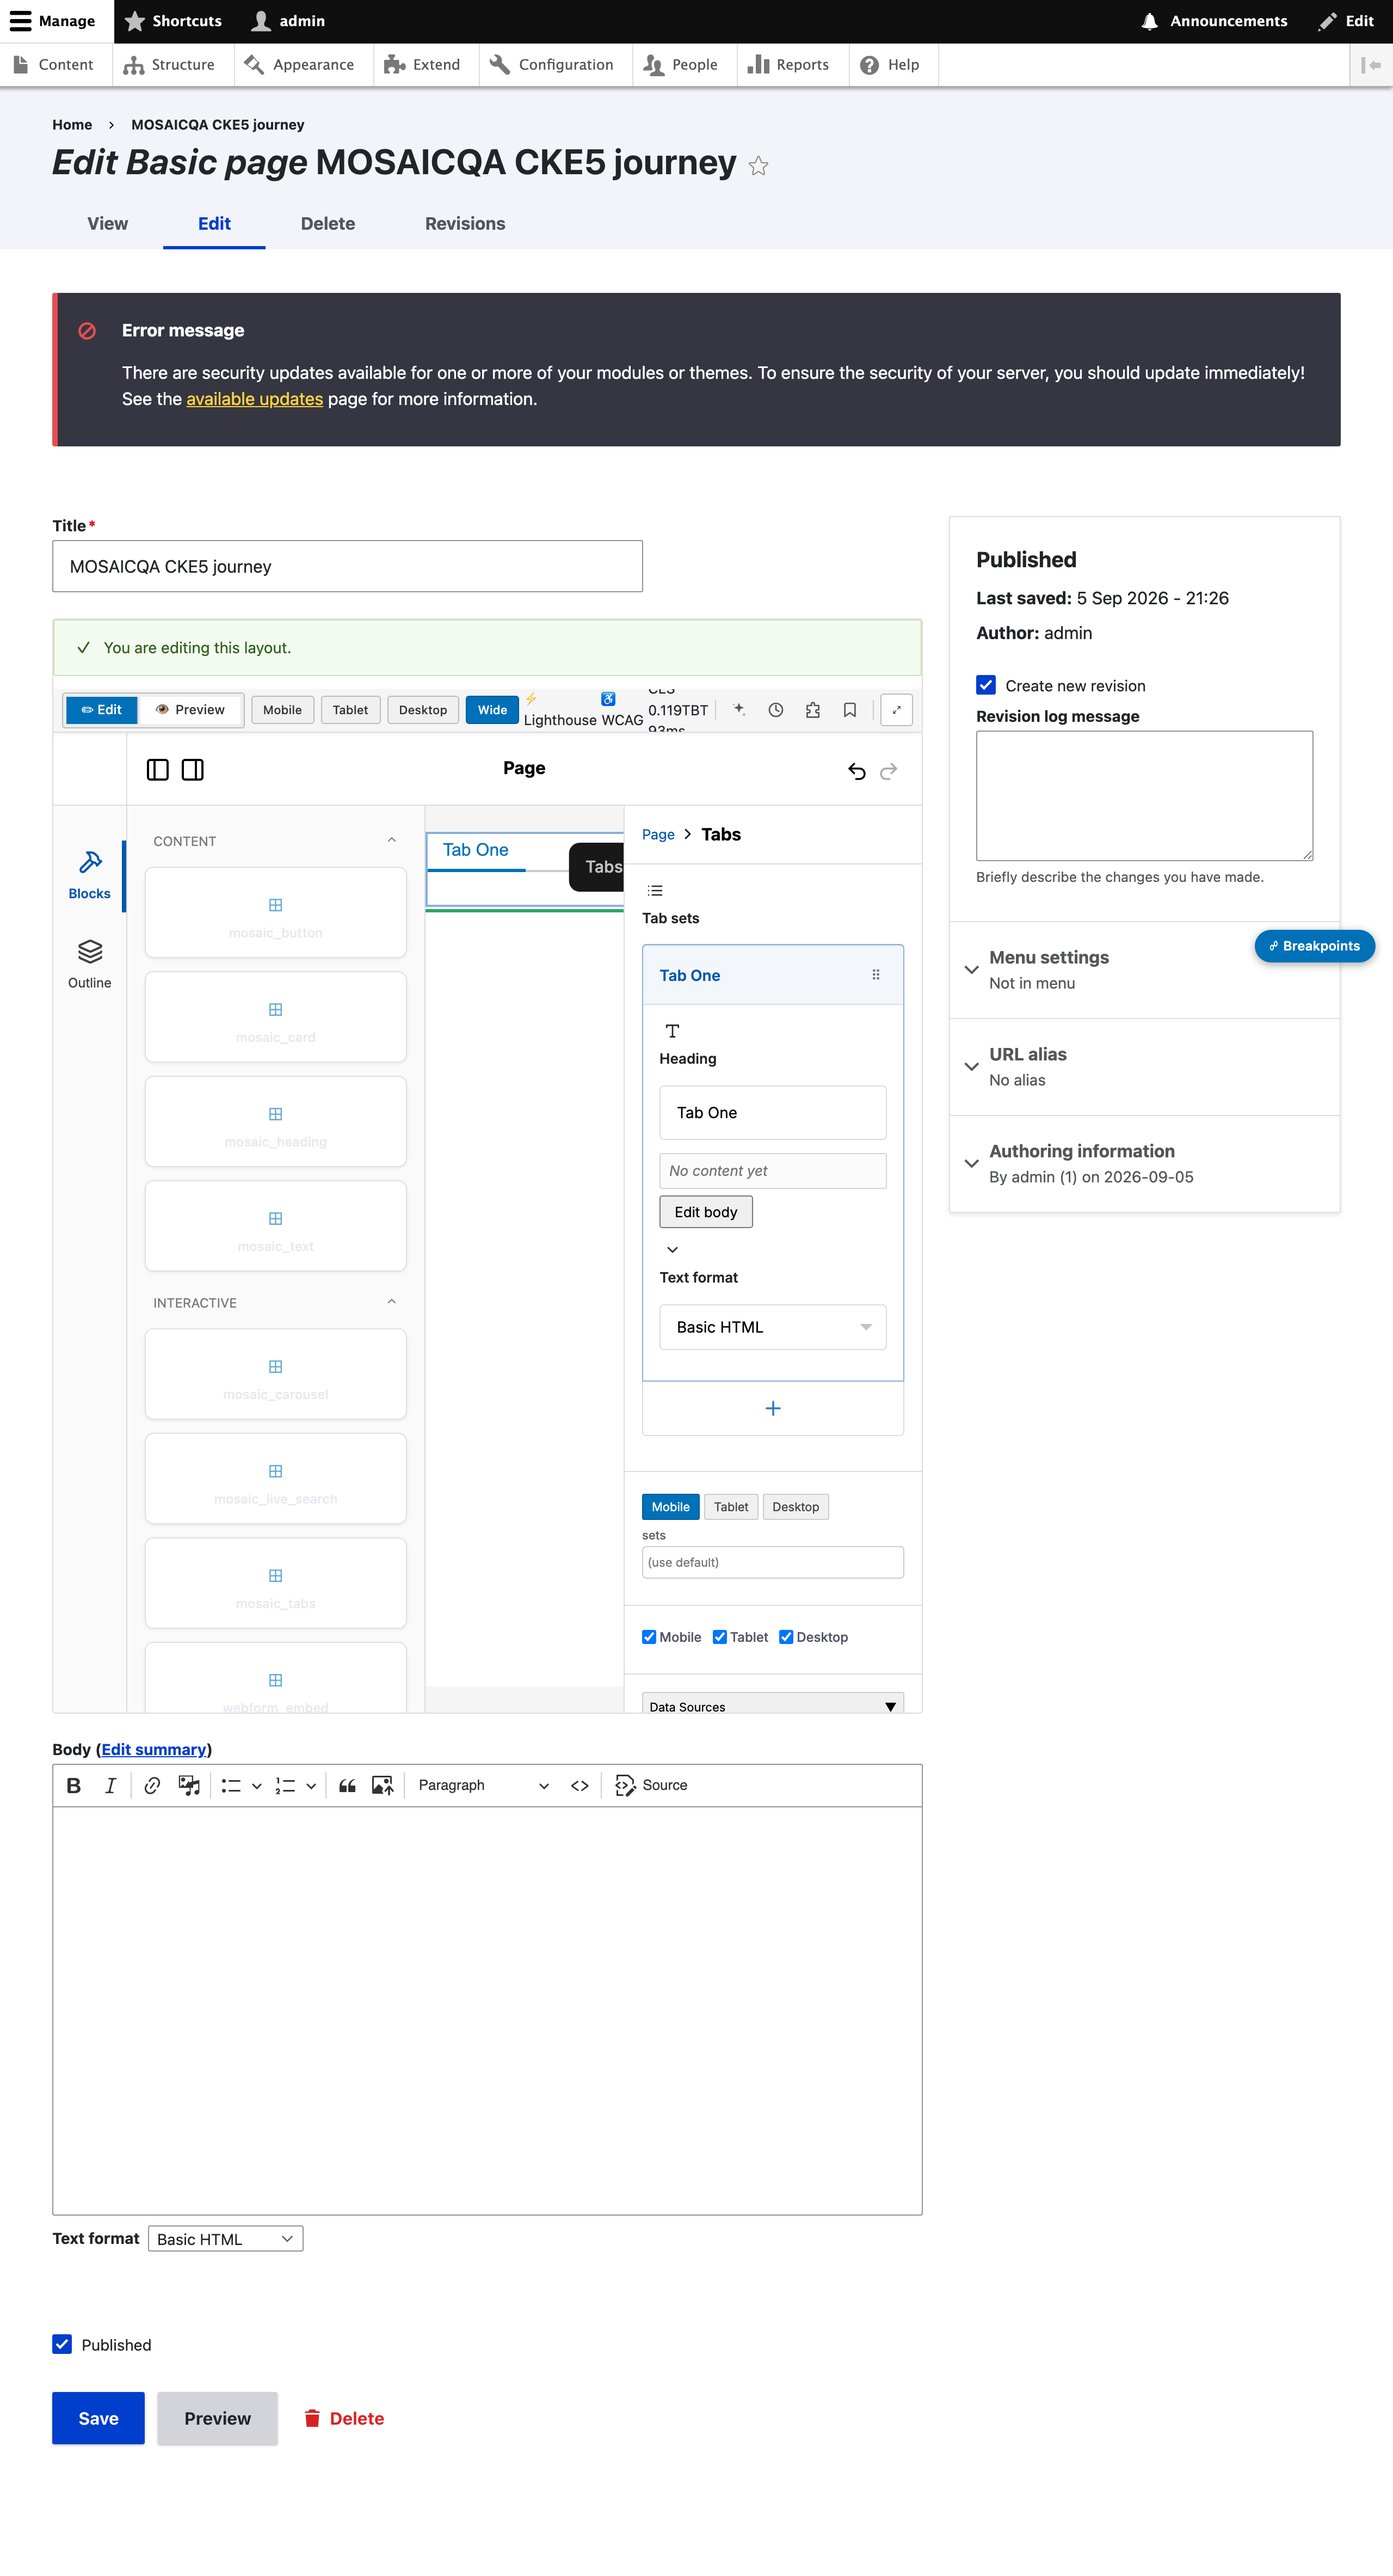
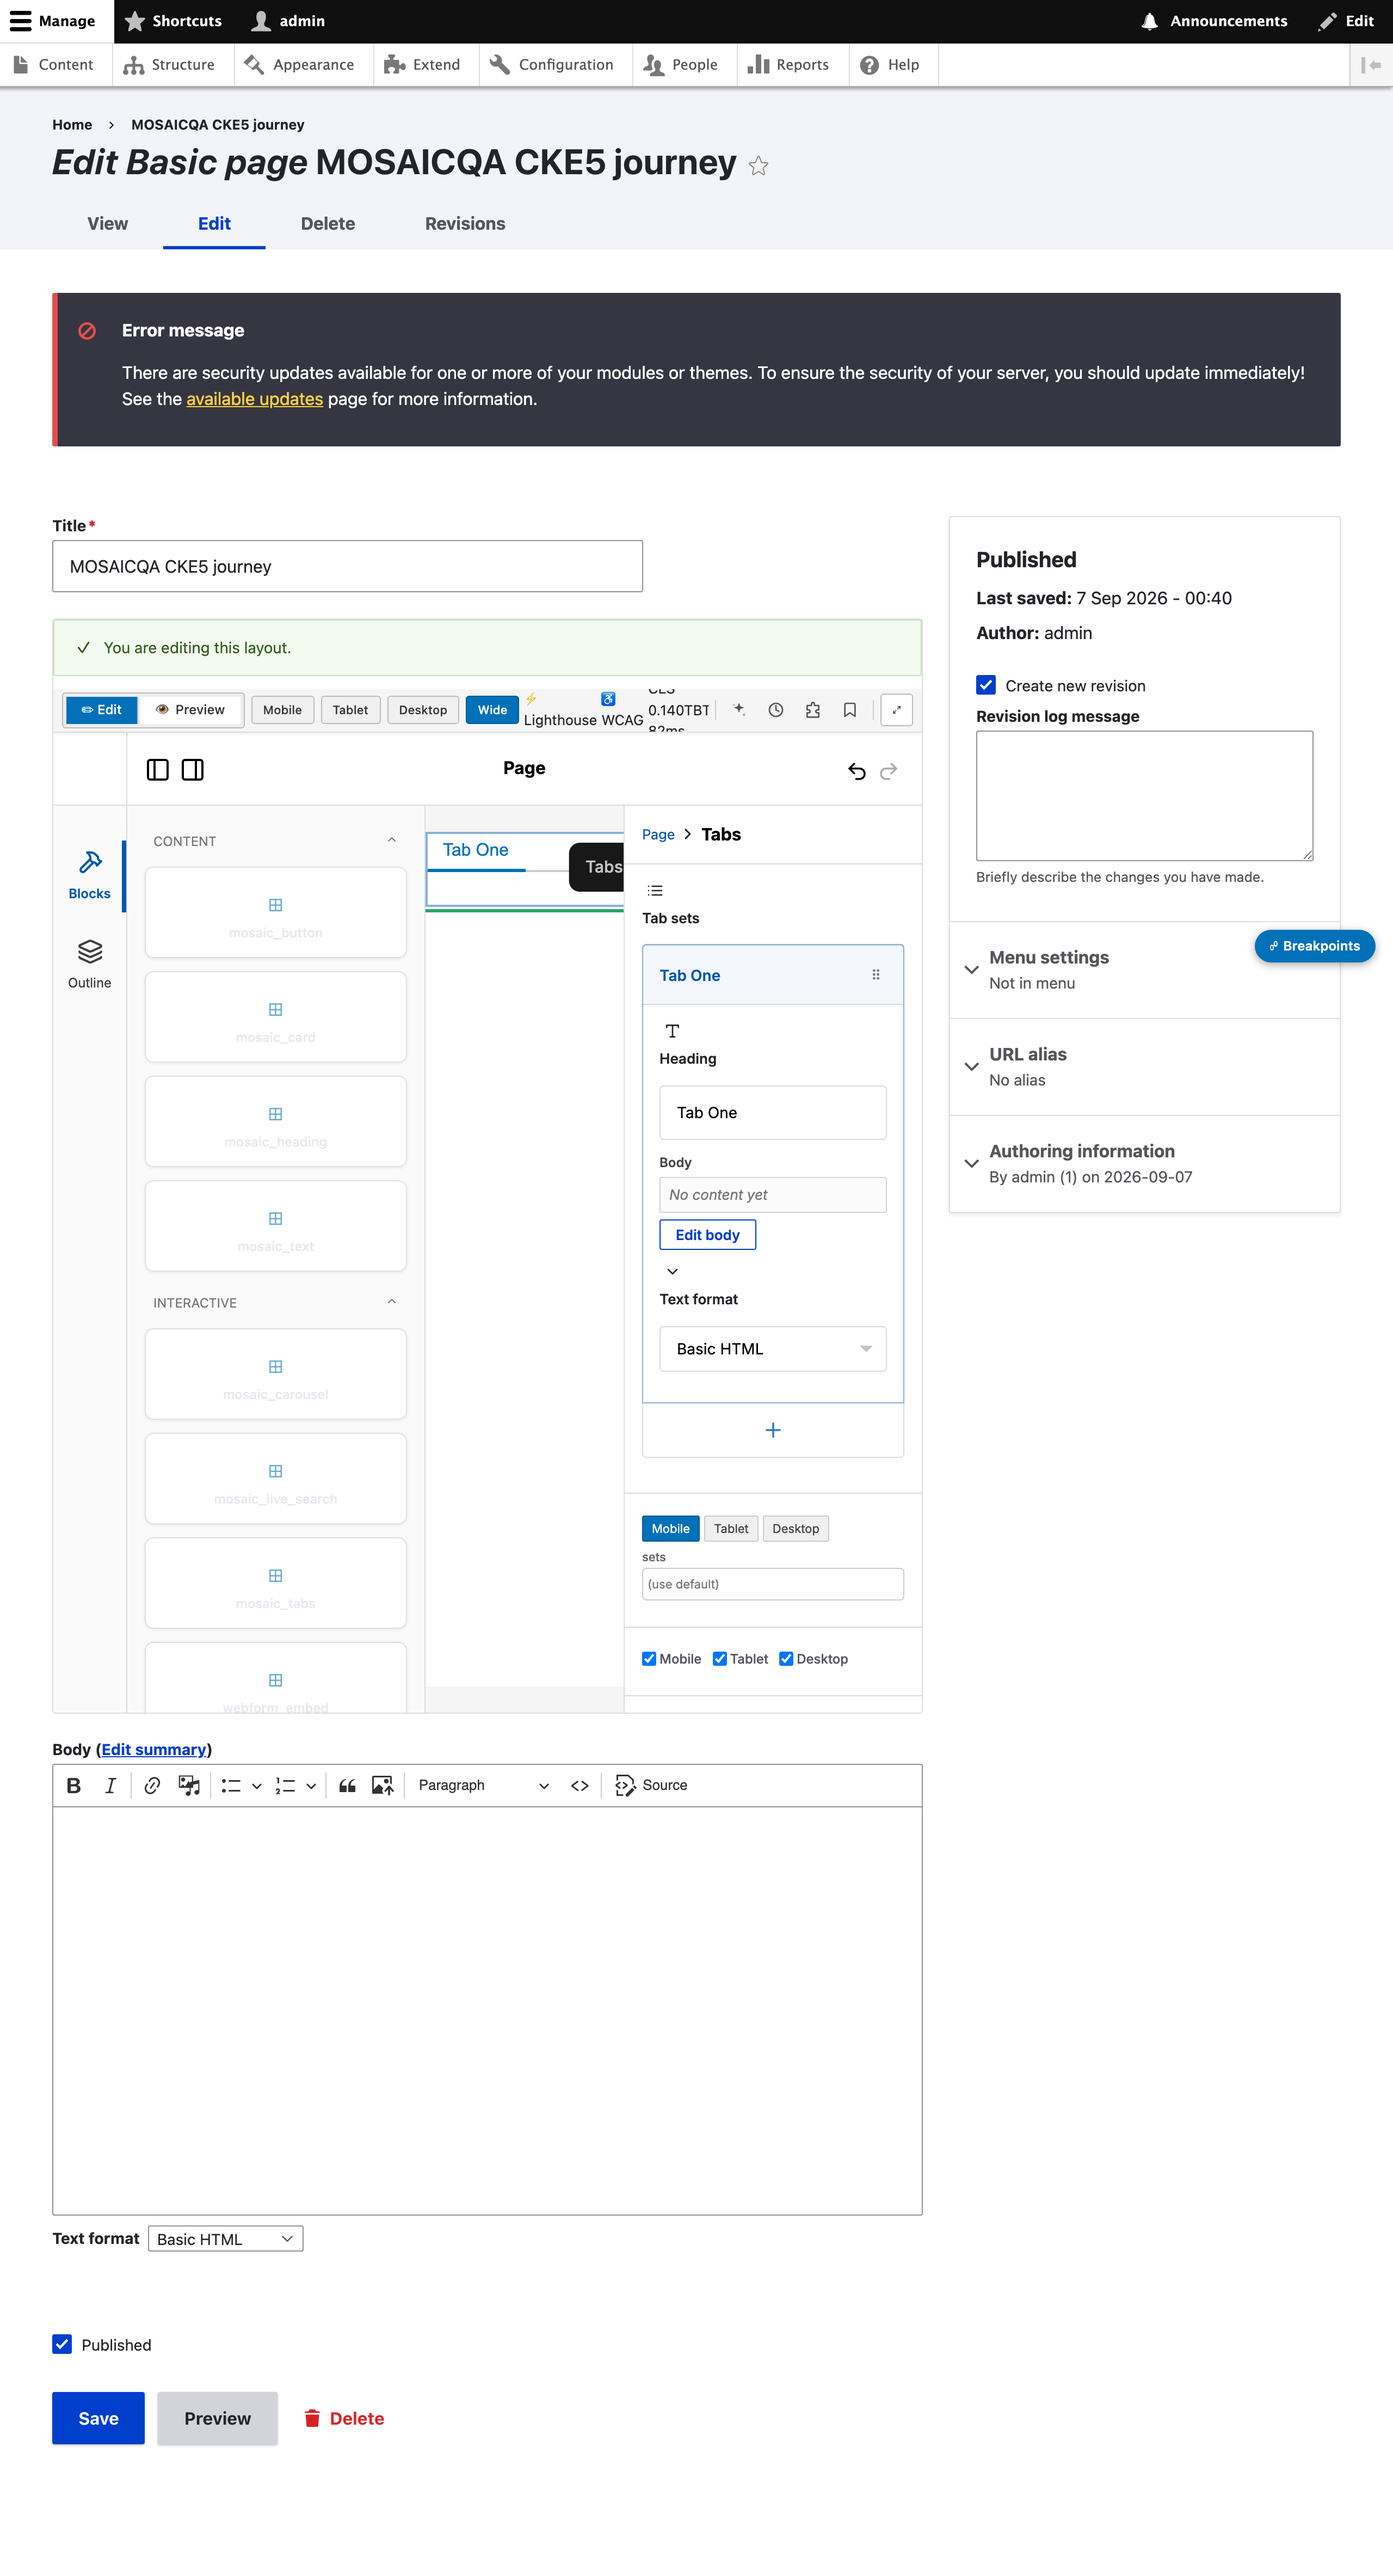
CP-EDIT20 editor UX hardening: album v2 (real-pointer + z-order) + refreshed reports
Media steps now driven by real pointers with an elementFromPoint z-order oracle:
media library proven on top and clickable — admin (#40) and frontend (#43, moved
into the top-layer dialog). Refreshed REPORT-CKE5.md (U1–U6 + double-check) and the
consolidated SHIP-31 list (50 files).

Changed region(s): [[0.4375, 0.5592, 0.5938, 0.6524], [0.4688, 0.4349, 0.5625, 0.5281]]

diff --git a/reports/REPORT-CKE5.md b/reports/REPORT-CKE5.md
@@ -337,3 +337,54 @@ open the FE editor → touch NOTHING → Close → assert NO unsaved-changes pro
 ## REMAINING (Wave D-0 — additive coverage, correctness already proven both surfaces)
 - Retrofit lock-two-window + template partials to full-lifecycle.
 - P4 shortened-TTL self-lockout LIVE e2e (unit 28/28 + Kernel 3/3 already prove it).
+
+---
+
+## CP-EDIT20 — EDITOR UX HARDENING (walk-catches #39–44). 2026-09-07.
+
+NEW STANDING LAW ledgered (AI/TODO.md): any stacking/visibility assertion uses REAL
+pointer interactions (page.mouse / locator.click, never evaluate-click) + a z-order
+oracle via document.elementFromPoint at the target centre. The evaluate-click bypass
+masked #40.
+
+- **U1 #39 modal shell** — BodyEditModal reworked: fixed size min(1100px,92vw)×min(85vh),
+  flex column; sticky header ("Body"); the CKE5 region fills and is the ONLY scroller
+  (`.ck-editor__top` sticky, `.ck-editor__editable` scrolls); sticky footer. Background
+  scroll-locked (body + FE dialog overflow) while open, restored on close. modalHost now
+  mounts into whichever top-layer <dialog> is open (FE editor OR admin fullscreen).
+- **U2 #40 admin stacking** — `.mosaic-body-modal` z-index = calc(var(--jui-dialog-z-index,
+  1260) − 5) = 1255: below Drupal's jQuery-UI dialog (media library, 1260) but above the
+  admin toolbar (1250) + Puck chrome. VALIDATED LIVE: real-pointer media click →
+  elementFromPoint over the library's Insert button = 'media-library' (on top, clickable).
+- **U3 #43 FE stacking** — FrontendBuilderDialog installs a MutationObserver that moves
+  any Drupal `.ui-dialog`/`.ui-widget-overlay` appended to <body> INTO the top-layer FE
+  <dialog> (same stacking context) so it lands on top; orphans closed on FE-editor
+  close/save; editor-gated chrome CSS. VALIDATED LIVE: the media library renders ON TOP
+  inside the FE dialog (z-order oracle = 'media-library'; before U3 it read 'fe-dialog').
+- **U4 #41 panel group** — visible "Body" label above the group (F-060; Puck renders none
+  for custom fields); preview = sanitized RENDERED snippet clamped to 3 lines with
+  ellipsis, no scrollbars, no textarea; admin-native secondary "Edit body" button with
+  hover/focus. Geometry oracles in BodyEditModal.test.
+- **U5 #42 panel↔canvas active-tab sync** — new tabsPanelSync.ts: a MutationObserver on
+  the panel reads the expanded Tab row (`ArrayFieldItem--isExpanded` + data-index) and
+  activates that tab on the SELECTED canvas component's <mosaic-tabs> (Elementor pattern);
+  collapse → first. Drives via the Lit `active` prop (published/upgraded) with a static-DSD
+  shadow-class fallback (the builder canvas is DSD, not upgraded — attachDeclarativeShadowRoots).
+  Canvas stays click-to-select (`:host([data-mosaic-preview]) button[role=tab]{pointer-events:none}`
+  + Puck's selection overlay). Both surfaces wired. Deep active-state styling = Act-2 boundary
+  (ledgered). Published render UNCHANGED (sentinel: node 329 renders mosaic-tabs, no data-mosaic-preview).
+- **U6 #44 save guard** — while the body modal is open, capture-phase submit/click listeners
+  block the HOST save (node-form / FE "Save"), show 'Apply or cancel the body editor first.',
+  focus the modal; the modal's own buttons + the media-library dialog are exempt (so insertion
+  still works); Apply preserves content. Unit-tested.
+
+### DOUBLE-CHECK second pass (CP-EDIT20)
+- Diff vs charter: all six items match; the real-pointer law is honoured in the journeys
+  (locator.click / page.mouse + elementFromPoint z-order oracle).
+- What-could-break: U3 observer only moves .ui-dialog/.ui-widget-overlay (Mosaic's own React
+  dialogs — save-template/unsaved-prompt — are untouched). U6 exempts the media library so
+  insertion is never blocked. U5 is additive + published-inert. modalHost covers admin
+  fullscreen (a latent gap fixed). Renderer change default (active=-1) = no published change.
+- Suites re-run: Vitest 488/489 (only B-101); module unit+kernel FULL 2853/0-fail; phpcs 0;
+  tabsPanelSync 3/3; BodyEditModal 9/9; admin+FE+P3 journeys GREEN under the real-pointer law;
+  render sentinel green. Dist rebuilt (builder+FE+renderer, libraries 1.0.11→1.0.12).

diff --git a/reports/SHIP-31-CKE5.md b/reports/SHIP-31-CKE5.md
@@ -1,16 +1,19 @@
-# SHIP #31 — CONSOLIDATED authoritative ship-list (reconciled 2026-09-05)
+# SHIP #31 — CONSOLIDATED authoritative ship-list (refreshed 2026-09-07, +CP-EDIT20)
 
-Read-only git, NOTHING staged. Arun commits after his re-walk. This SUPERSEDES the
-earlier "18 files" figure (that was the CP-BODY-CKE5 *delta only*) and the spike's
-"44 tracked-M + 12 new" (STALE — it counted js/dist `chunk-*.js` that the
-deterministic rebuild left byte-identical, plus files committed in interim ships).
+Read-only git, NOTHING staged. Arun commits after his re-walk. Refreshed after
+CP-EDIT20 (editor UX hardening, walk-catches #39–44) rode in — totals grew from 45.
 
-## EXACT TOTALS (verified via git, this session)
-- (a) tracked changes  `git status --short | grep -v '^??'`  = **33**  (all ` M`, zero ` D`)
-- (b) untracked keep-list (minus AI/, *.log, assets/, *.zip, .DS_Store, esc-probe.config.ts) = **12**
-- **GRAND TOTAL = 45 files**
-- `git check-ignore` verdict: **45/45 ship-ok (0 ignored)**
-- By origin: cke5 **18** · f087 **13** · stages34 **10** · f089-093 **4**
+## EXACT TOTALS (verified via git, this session — post CP-EDIT20)
+- (a) tracked changes  `git status --short | grep -v '^??'`  = **36**  (all ` M`, zero ` D`)
+- (b) untracked keep-list (minus AI/, *.log, assets/, *.zip, .DS_Store, esc-probe.config.ts) = **14**
+- **GRAND TOTAL = 50 files**  (was 45 at CP-BODY-CKE5; +5 CP-EDIT20)
+- `git check-ignore` verdict: **50/50 ship-ok (0 ignored)**
+- By origin: cke5-edit20 **23** · f087 **13** · stages34 **10** · f089-093 **4**
+  (cke5 18 folded into cke5-edit20; CP-EDIT20 added 5: css/mosaic-frontend-editor.css,
+   js/dist/renderer.js, js/src/renderer/components/mosaic-tabs.ts, js/src/builder/tabsPanelSync.ts,
+   js/src/builder/__tests__/tabsPanelSync.test.ts — and touched BodyEditModal/BuilderApp/
+   FrontendBuilderDialog/mosaic-fields.css/builder.js/frontend-editor.js/mosaic.libraries.yml
+   which were already in the cke5 set.)
 - deleted-tiptap-no-longer-appears: 5 files (DrupalMediaNode.ts, RichtextMediaMenu.tsx,
   DrupalMediaSurvival.test.ts, RichtextMediaMenu.test.tsx, RichtextField.test.ts) were
   UNTRACKED, so their deletion leaves **0** entries in git status — correctly absent.
@@ -85,12 +88,14 @@ cd web/modules/custom/mosaic
 # 1) all 33 tracked modifications (updates tracked files only — never adds untracked noise)
 git add -u
 
-# 2) the 12 new (untracked) ship files — explicit, so no dev noise is swept in
+# 2) the 14 new (untracked) ship files — explicit, so no dev noise is swept in
 git add \
   js/src/builder/__tests__/BodyEditModal.test.tsx \
   js/src/builder/__tests__/TabsArrayUX.test.ts \
   js/src/builder/__tests__/TabsPersistence.test.ts \
+  js/src/builder/__tests__/tabsPanelSync.test.ts \
   js/src/builder/fields/BodyEditModal.tsx \
+  js/src/builder/tabsPanelSync.ts \
   js/src/shared/__tests__/DirtyBaseline.test.ts \
   modules/mosaic_media/css/mosaic-media-fe.css \
   src/Service/MosaicEditorAttachments.php \
@@ -100,10 +105,14 @@ git add \
   tests/src/Kernel/Service/MosaicLayoutLockSelfLockoutTest.php \
   tests/src/Kernel/Service/MosaicTextFormatGuardTest.php
 
-# 3) verify EXACTLY 45 staged, and that no noise slipped in
-git diff --cached --name-only | wc -l          # must print 45
+# 3) verify EXACTLY 50 staged, and that no noise slipped in
+git diff --cached --name-only | wc -l          # must print 50
 git diff --cached --name-only | grep -E '\.log$|^AI/|^assets/|\.zip$|esc-probe' || echo "clean — no noise staged"
 ```
+CP-EDIT20 tracked-M additions (already covered by `git add -u`): css/mosaic-frontend-editor.css,
+js/dist/renderer.js, js/src/renderer/components/mosaic-tabs.ts, plus re-touched
+BodyEditModal.tsx/BuilderApp.tsx/FrontendBuilderDialog.tsx/mosaic-fields.css/builder.js/
+frontend-editor.js/mosaic.libraries.yml (1.0.12).
 
 ## Ship #31 scope recap (what the 45 deliver)
 - stages34 (CP-TABS-REDESIGN Stages 3+4): Tabs `sets` repeatable authoring, richtext

diff --git a/INDEX.md b/INDEX.md
@@ -3,11 +3,14 @@
 Reviewer entry point. Evidence + run reports only (no code, DB, or secrets).
 
 ## Albums
-- [`tabs-cke5/`](tabs-cke5/INDEX.md) — **CP-BODY-CKE5**: CKEditor 5 body editor (expand
-  modal) replaces the TipTap fork. 19 frames across 3 green full-lifecycle journeys
-  (admin, frontend, false-dirty untouched-page).
+- [`tabs-cke5/`](tabs-cke5/INDEX.md) — **CP-BODY-CKE5 + CP-EDIT20 (v2)**: CKEditor 5 body
+  editor (expand modal) replaces the TipTap fork, plus editor UX hardening (#39–44). 19
+  frames across 3 green full-lifecycle journeys (admin, frontend, false-dirty untouched).
+  v2 drives the media steps with REAL pointers + `elementFromPoint` z-order oracle.
   - Money frame — image visible inside the CKE5 body (**admin**): [`tabs-cke5/05-media-in-cke5-body.png`](tabs-cke5/05-media-in-cke5-body.png)
   - Money frame — image visible inside the CKE5 body (**frontend**): [`tabs-cke5/FE-05-fe-media-in-cke5.png`](tabs-cke5/FE-05-fe-media-in-cke5.png)
+  - Stacking proof — media library on top (**admin #40**): [`tabs-cke5/04-media-library.png`](tabs-cke5/04-media-library.png)
+  - Stacking proof — media library on top inside the top-layer dialog (**frontend #43**): [`tabs-cke5/FE-04-fe-media-library.png`](tabs-cke5/FE-04-fe-media-library.png)
 
 ## Reports
 - [`reports/REPORT-CKE5.md`](reports/REPORT-CKE5.md) — full CP-BODY-CKE5 phase log:

diff --git a/tabs-cke5/INDEX.md b/tabs-cke5/INDEX.md
@@ -1,9 +1,18 @@
-# tabs-cke5 — CP-BODY-CKE5 journey album
+# tabs-cke5 — CP-BODY-CKE5 + CP-EDIT20 journey album (v2)
 
 CKEditor 5 body editor (expand modal) replacing the old in-panel TipTap fork.
 Three green full-lifecycle Playwright journeys, captured under the evidence-quality
 law (fullPage overviews / targeted assertion-region frames, deviceScaleFactor 2).
 Each journey uses a throwaway scratch node, auto-deleted (DB net-zero).
+
+**v2 (CP-EDIT20, editor UX hardening #39–44):** the media-insert steps are now driven
+by REAL pointer interactions (locator.click / page.mouse — never evaluate-click) and
+assert z-order via `document.elementFromPoint` at the target's centre. The `media-library`
+frames prove the library lands **on top and is clickable** — admin (#40, modal z-index
+below Drupal's jQuery-UI dialog) and frontend (#43, the library is moved INTO the
+top-layer `<dialog>`). Other CP-EDIT20 items (fixed-shell modal, panel Body label + 3-line
+clamp preview, panel↔canvas active-tab sync, save-while-open guard) are covered by unit
+tests; see `reports/REPORT-CKE5.md`.
 
 ## Admin surface — `tabs-cke5-journey.spec.ts`
 open seeded Tabs → Edit body (CKE5) → insert media → Apply → save → reload → render.
